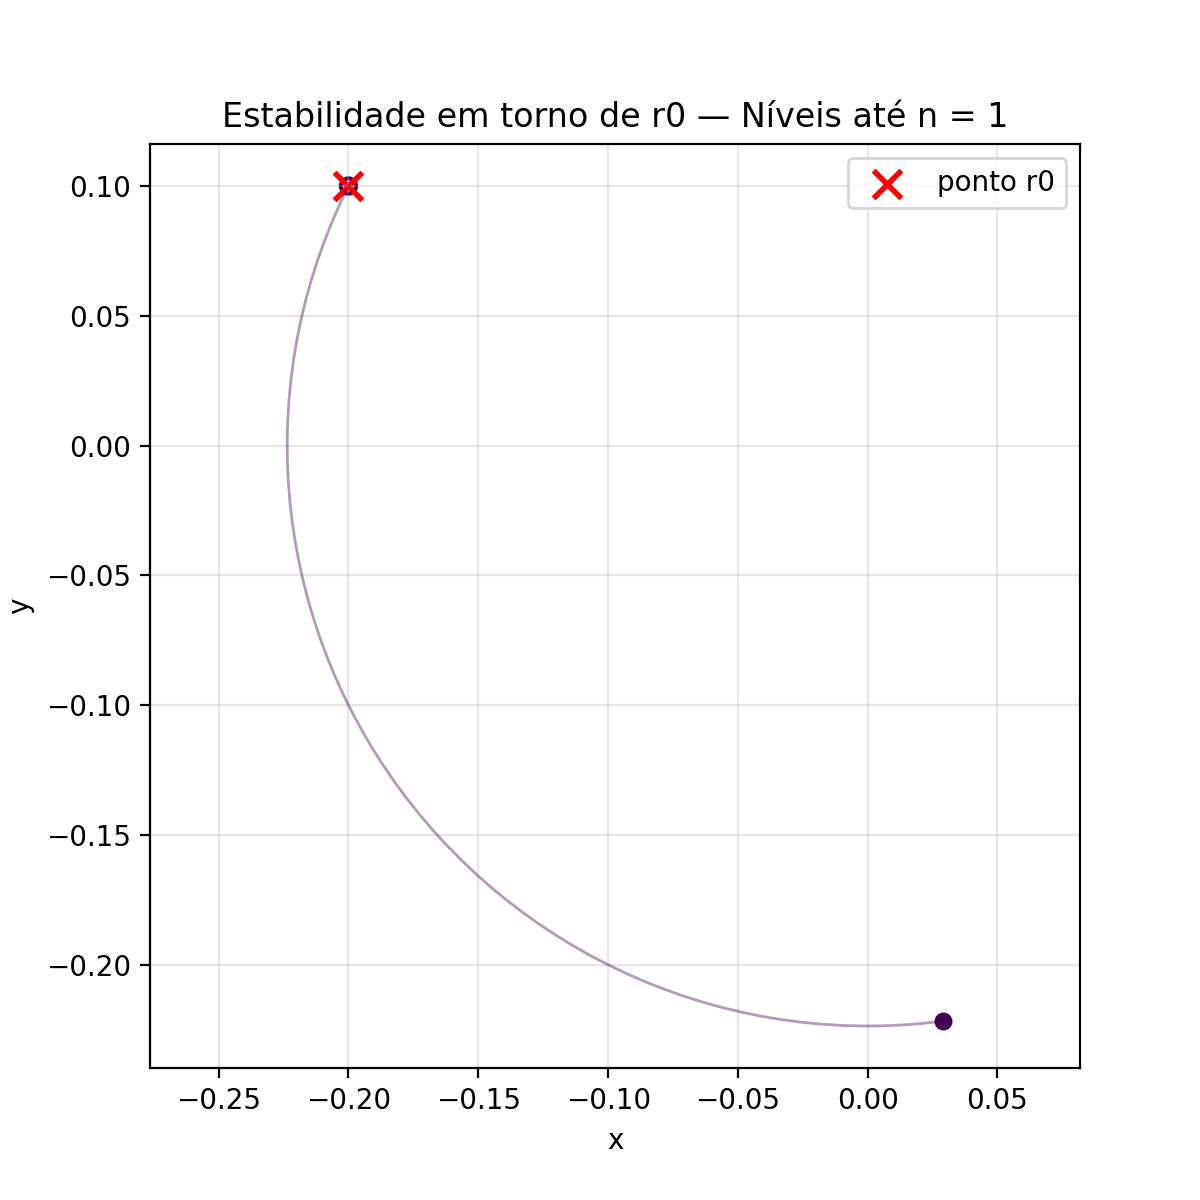
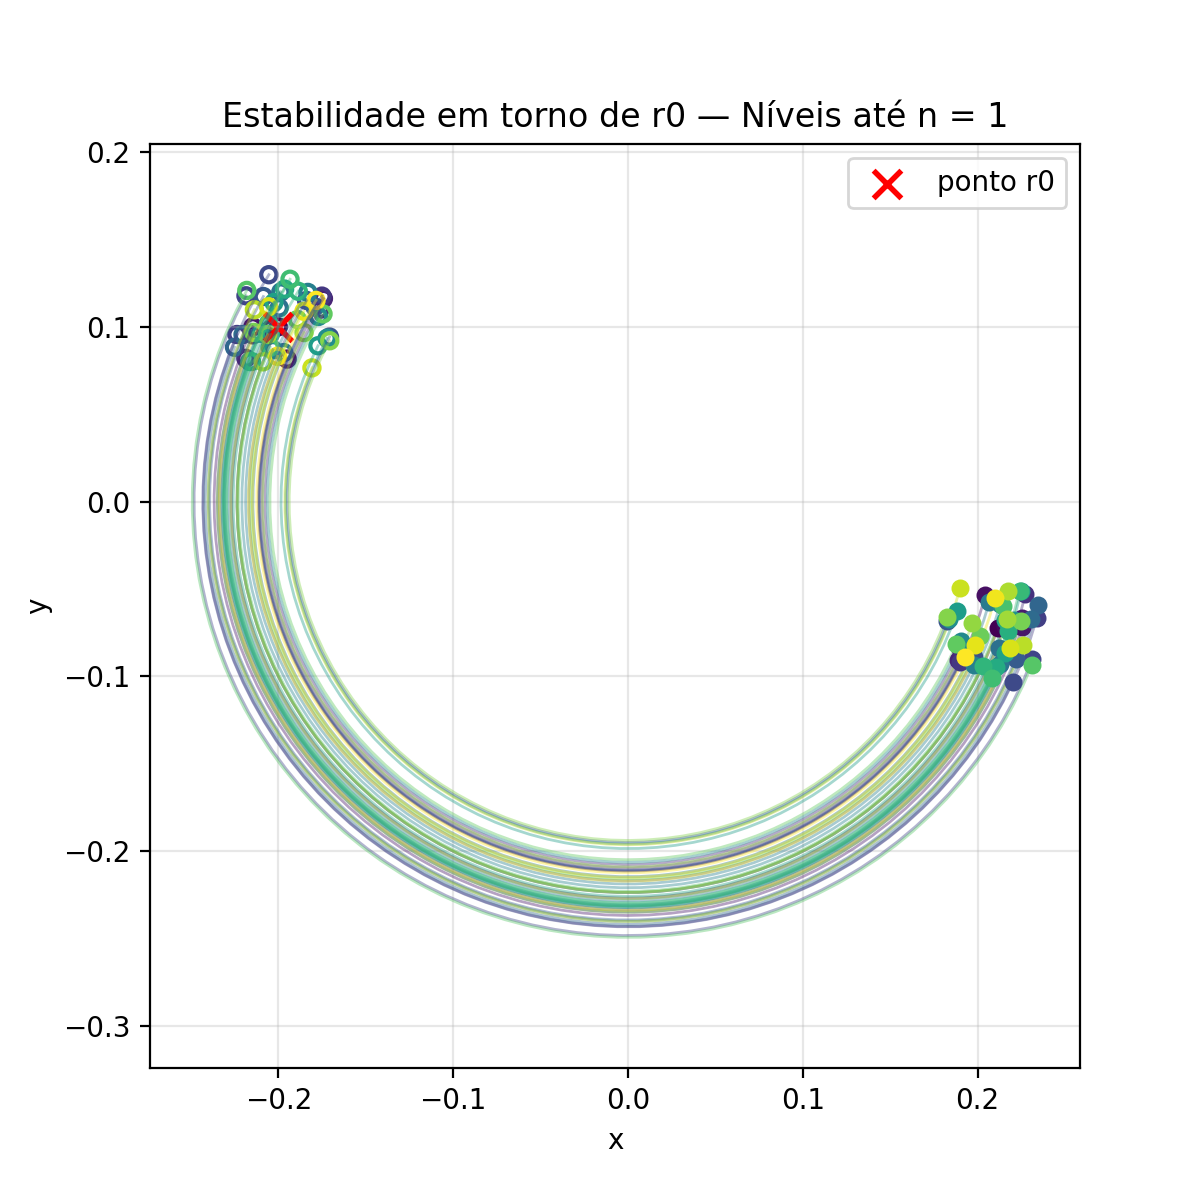
a

diff --git a/GErar_centros.py b/GErar_centros.py
@@ -360,7 +360,7 @@ def simular_particulas_2_static(N, N_fields, dimensao_quadrado, r0, dt=0.01, t_m
 
     t, r = it.solve_RK4(funcao, particle_t0, 0.0, dt, t_max)
     return t, r
-r0 = np.array([-.2, .1])
+'''r0 = np.array([-.2, .1])
 n_max = 20
 dt = 0.08 * R(n_max) 
 L = R(n_max)/16
@@ -383,6 +383,117 @@ plt.axis('equal')
 plt.grid()
 plt.legend()
 plt.show()
+'''
+import os
+def testar_estabilidade_2(
+    nivel_max,
+    
+    N_particulas,
+    r0,
+    pasta_saida="estabilidade_2",
+    nivel_min = 1
+):
+    """
+    Testa a estabilidade do ponto r0 para diferentes números de níveis do campo.
+    Para cada nível n:
+      - simula uma nuvem de partículas ao redor de r0
+      - plota as trajetórias
+      - salva a figura em disco
+    """
 
+    os.makedirs(pasta_saida, exist_ok=True)
+
+    for n in range(nivel_min, nivel_max + 1):
+
+
+        # Escalas naturais do nível
+        L = R(n)/16         # tamanho da nuvem inicial
+        dt = 0.08 * R(n)             # passo temporal
+        t_max = 5         # tempo total (alguns períodos)
+
+        print(f"Testando estabilidade para n = {n}")
+
+        ts, rs = simular_particulas_2_static(
+            N=N_particulas,
+            N_fields=n,
+            dimensao_quadrado=L,
+            r0=r0,
+            dt=dt,
+            t_max=t_max
+        )
+
+        # rs tem shape (Nt, N, 2)
+        Nt = rs.shape[0]
+
+        plt.figure(figsize=(6, 6))
+
+
+        cores = plt.cm.viridis(np.linspace(0, 1, N_particulas))
+
+        for i in range(N_particulas):
+            # Trajetória
+            plt.plot(
+                rs[:, i, 0],
+                rs[:, i, 1],
+                lw=1,
+                alpha=0.4,
+                color=cores[i]
+            )
+
+            # Ponto inicial (vazado)
+            plt.scatter(
+                rs[0, i, 0],
+                rs[0, i, 1],
+                facecolors="none",
+                edgecolors=cores[i],
+                s=30,
+                linewidths=1.5
+            )
+
+            # Ponto final (bem visível)
+            plt.scatter(
+                rs[-1, i, 0],
+                rs[-1, i, 1],
+                color=cores[i],
+                s=30,
+                zorder=3
+            )
+
+        # Ponto central
+        plt.scatter(
+            r0[0, 0],
+            r0[0, 1],
+            c="red",
+            s=100,
+            marker="x",
+            linewidths=2,
+            label="ponto r0"
+        )
+
+        plt.axis("equal")
+        plt.xlabel("x")
+        plt.ylabel("y")
+        plt.title(f"Estabilidade em torno de r0 — Níveis até n = {n}")
+        plt.legend()
+        plt.grid(alpha=0.3)
+
+
+        nome_arquivo = os.path.join(
+            pasta_saida,
+            f"estabilidade_nivel_{n}_em_x{r0[0,0]:.3f}_y{r0[0,1]:.2f}em.png"
+        )
+        plt.savefig(nome_arquivo, dpi=200)
+        plt.close()
+
+        print(f"Imagem salva em: {nome_arquivo}")
+
+r0 = np.array([[-.2, .1]])
+
+testar_estabilidade_2(
+    nivel_max=20,
+    N_particulas=50,
+    r0=r0,
+    nivel_min = 11
+)
 
 
